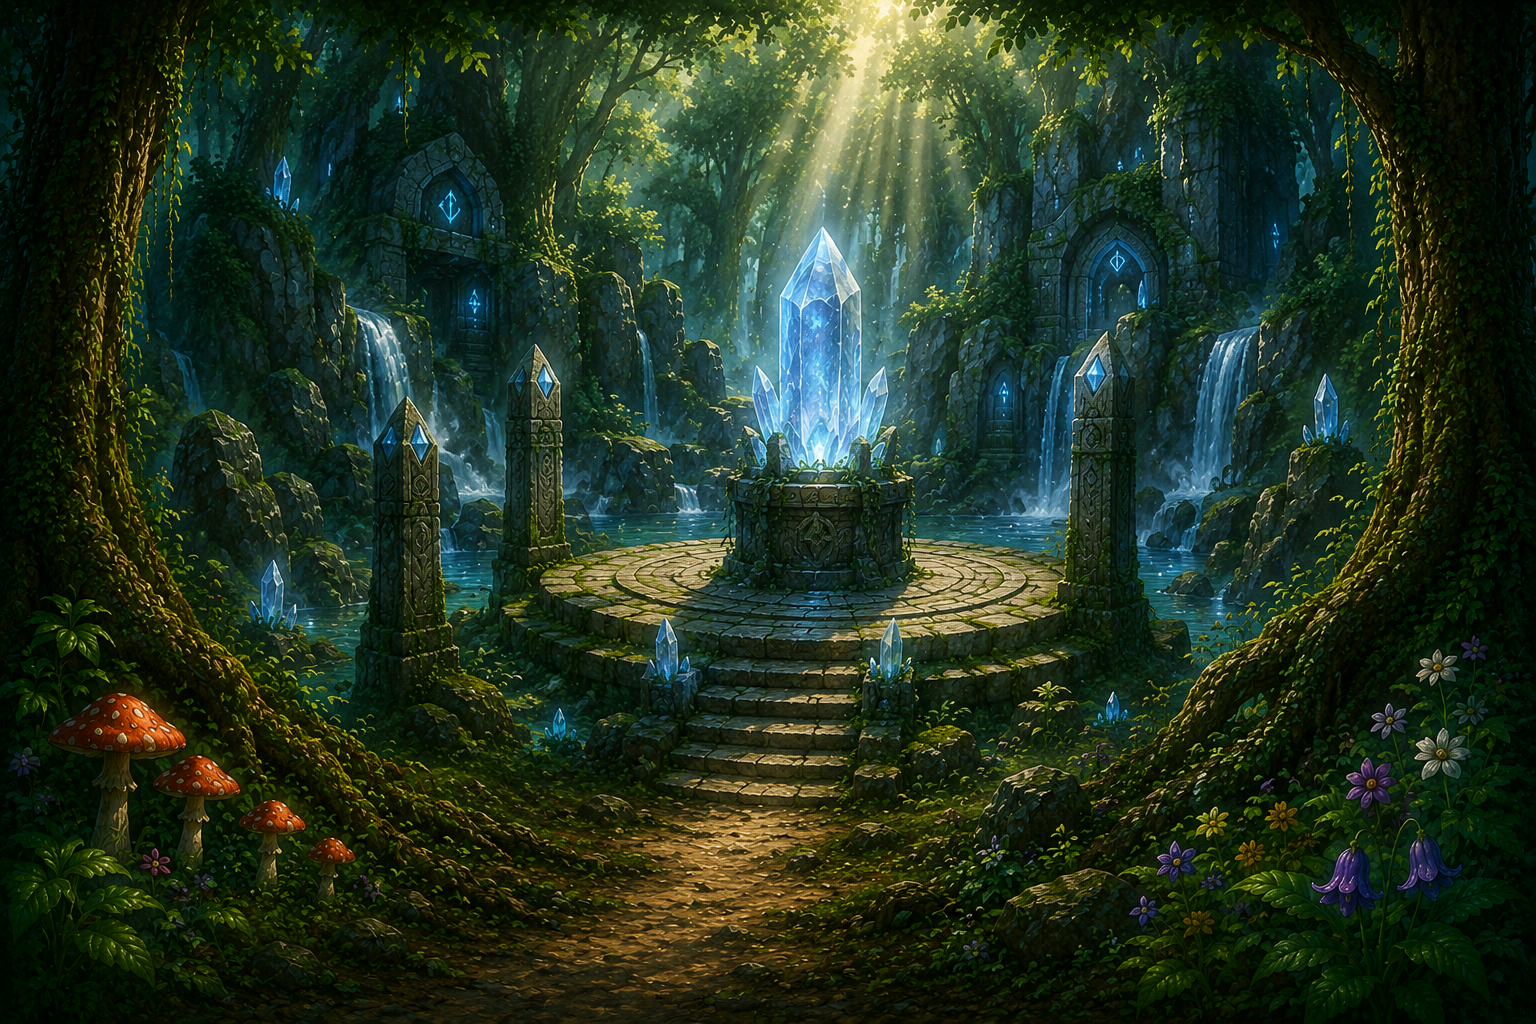
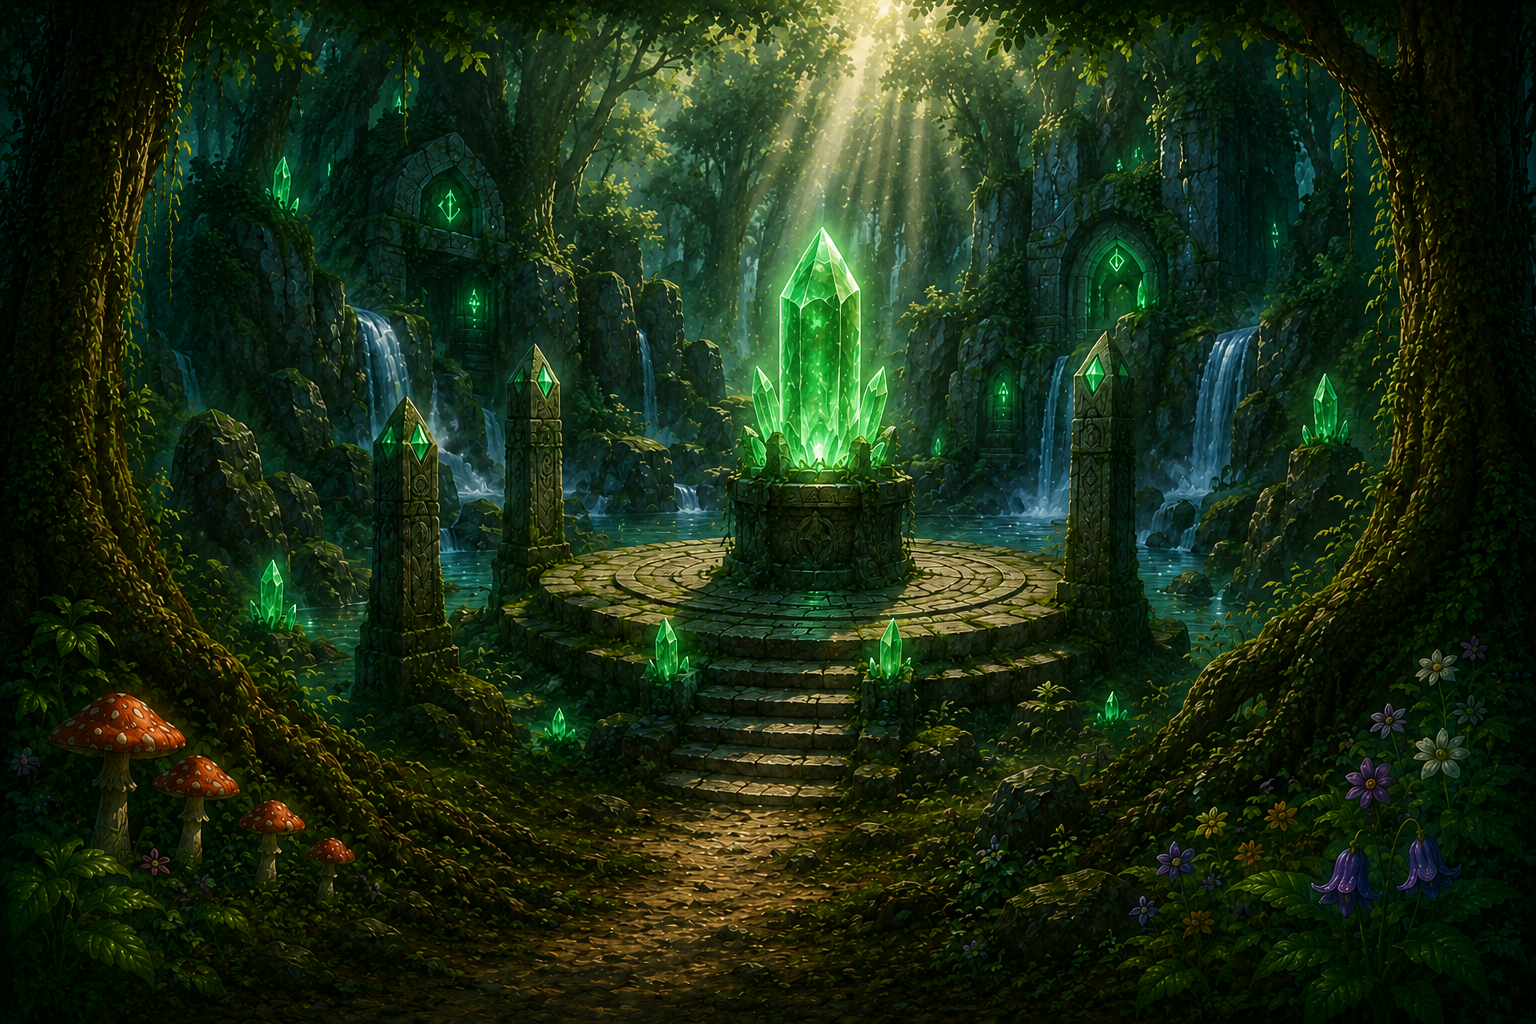
cambio el fondo de la mision 9 del primer mundo

diff --git a/css/styles.css b/css/styles.css
@@ -370,7 +370,6 @@ button:disabled {
         56.3% 29%, 56.2% 39%, 57.5% 35%, 58.5% 47%, 55.8% 50%, 51.2% 50%
     );
     filter:
-        hue-rotate(-66deg)
         saturate(1.48)
         brightness(1.08)
         drop-shadow(0 0 3px rgba(66, 224, 132, 0.38));
@@ -2247,7 +2246,6 @@ button:disabled {
     from {
         opacity: 0.5;
         filter:
-            hue-rotate(-66deg)
             saturate(1.42)
             brightness(1.04)
             drop-shadow(0 0 3px rgba(66, 224, 132, 0.32));
@@ -2256,7 +2254,6 @@ button:disabled {
     to {
         opacity: 0.68;
         filter:
-            hue-rotate(-66deg)
             saturate(1.58)
             brightness(1.18)
             drop-shadow(0 0 6px rgba(66, 224, 132, 0.54));
